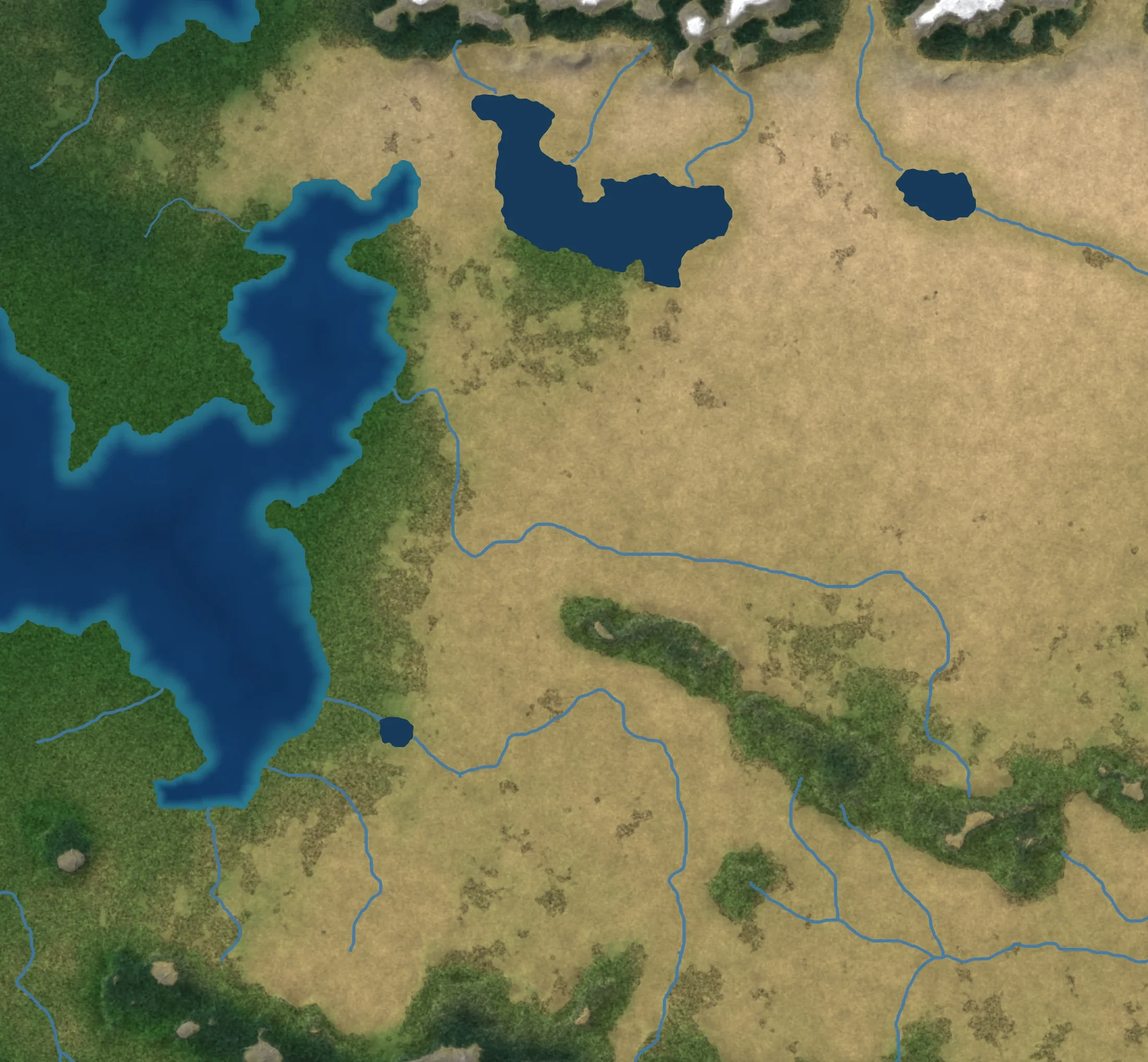
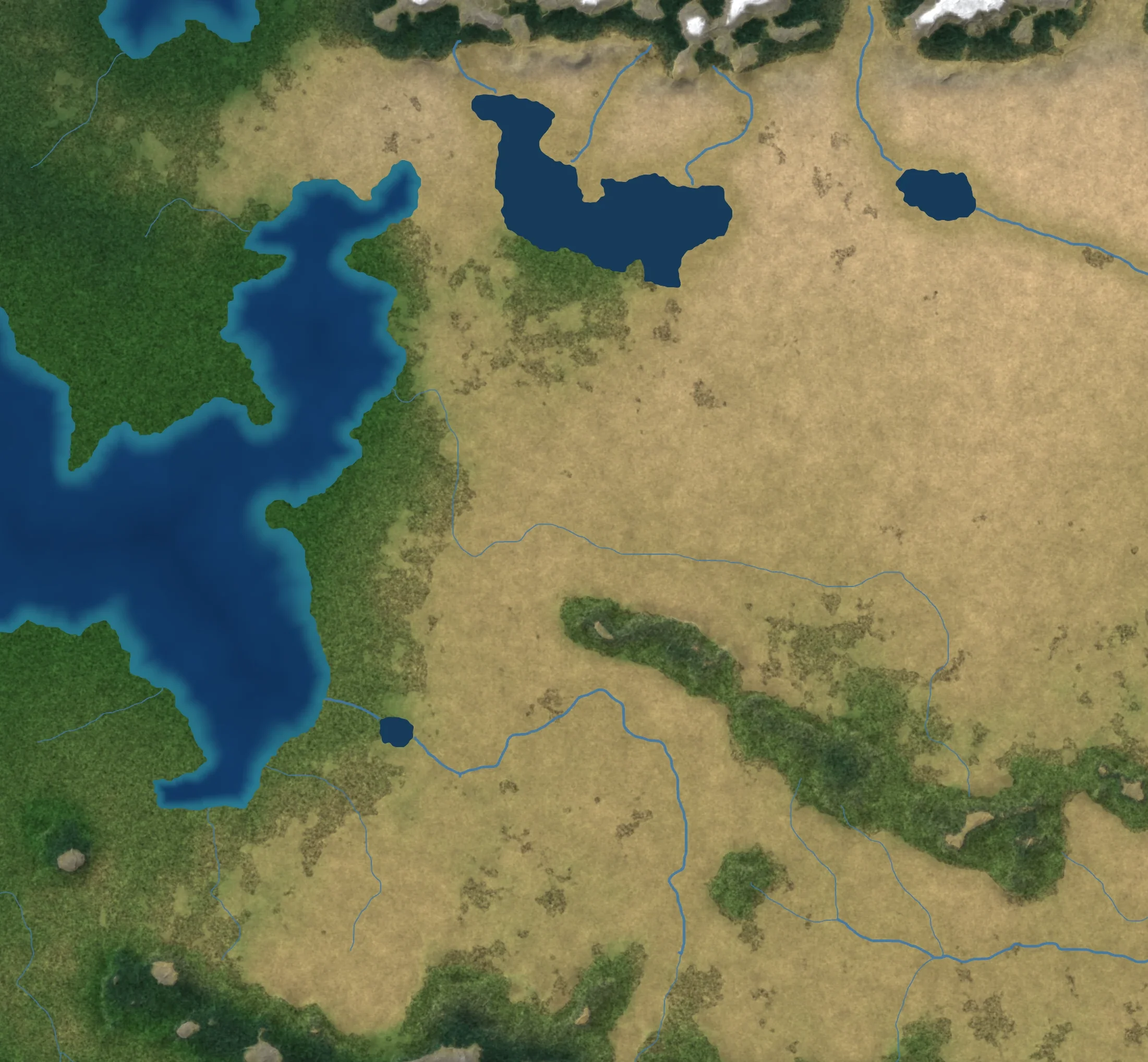
Orbital view: two river classes (thin streams, navigable rivers drawn wider)
Rivers are split by the median half-width of the source line along each
traced centreline: wide lines in the river layer are the navigable ones.

Claude-Session: https://claude.ai/code/session_01CjgxBcc5q1qAL72x4EhBR4

diff --git a/scripts/vector_rivers.py b/scripts/vector_rivers.py
@@ -132,22 +132,38 @@ def smooth_path(a, sigma=2.5):
     return a * (1 - w) + b * w
 
 
-def river_alpha(rivers, scale, min_width=1.1, max_width=3.0, supersample=2):
-    """Anti-aliased river coverage (0..1) at `scale` times the drawing's size:
-    centre lines traced into long polylines, smoothed along their length and
-    drawn round-capped, one width per river system (its drawn width)."""
+def river_lines(rivers):
+    """Traced river centre lines with their class: (line, navigable). The
+    drawing has two kinds, streams one pixel wide and navigable rivers two,
+    on a 2000-px canvas; on this 4401-px layer they are about 3 and 5 px
+    wide, so their centre lines sit 1-2 px and 3 px from the edge."""
     mask = rivers > 0.3
     dt = ndi.distance_transform_edt(mask)
     skel = _drop_corners(_thin(mask.astype(np.uint8).copy()))
-    lab, n = ndi.label(skel, structure=np.ones((3, 3)))
-    med = np.atleast_1d(ndi.median(2.0 * dt, lab, index=np.arange(1, n + 1)))
-    lines = trace(skel)
+    return [(l, float(np.median([dt[y, x] for y, x in l])) > 2.5) for l in trace(skel)]
+
+
+def river_classes(rivers):
+    """Masks (at the drawing's resolution) of the streams and of the navigable rivers."""
+    stream = np.zeros(rivers.shape, bool)
+    navigable = np.zeros(rivers.shape, bool)
+    for line, nav in river_lines(rivers):
+        ys, xs = zip(*line)
+        (navigable if nav else stream)[list(ys), list(xs)] = True
+    return stream, navigable
+
+
+def river_alpha(rivers, scale, stream_width=0.9, navigable_width=2.4, supersample=2):
+    """Anti-aliased river coverage (0..1) at `scale` times the drawing's size:
+    centre lines traced into long polylines, smoothed along their length and
+    drawn round-capped, streams thin and navigable rivers wide."""
+    lines = river_lines(rivers)
     H, W = rivers.shape
     f = scale * supersample
     img = Image.new("L", (W * f, H * f), 0)
     draw = ImageDraw.Draw(img)
-    for line in lines:
-        w = float(np.clip(med[lab[line[0]] - 1], min_width, max_width)) * f
+    for line, nav in sorted(lines, key=lambda t: t[1]):        # navigable rivers drawn last, on top
+        w = (navigable_width if nav else stream_width) * f
         a = smooth_path(line)
         xy = [((x + 0.5) * f, (y + 0.5) * f) for y, x in a]
         draw.line(xy, fill=255, width=max(1, round(w)), joint="curve")
